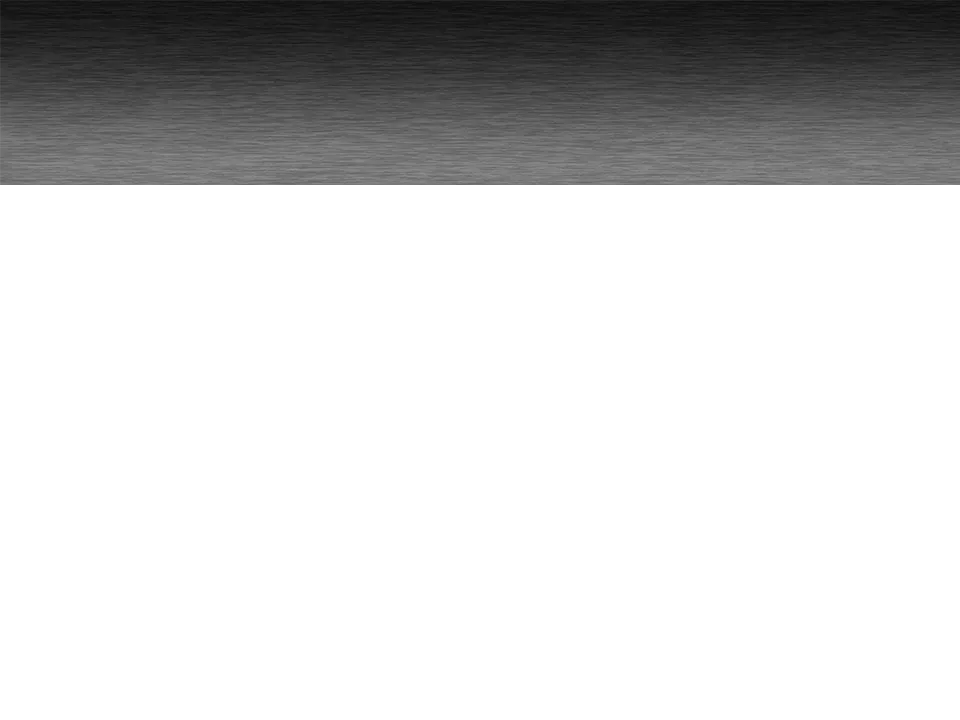
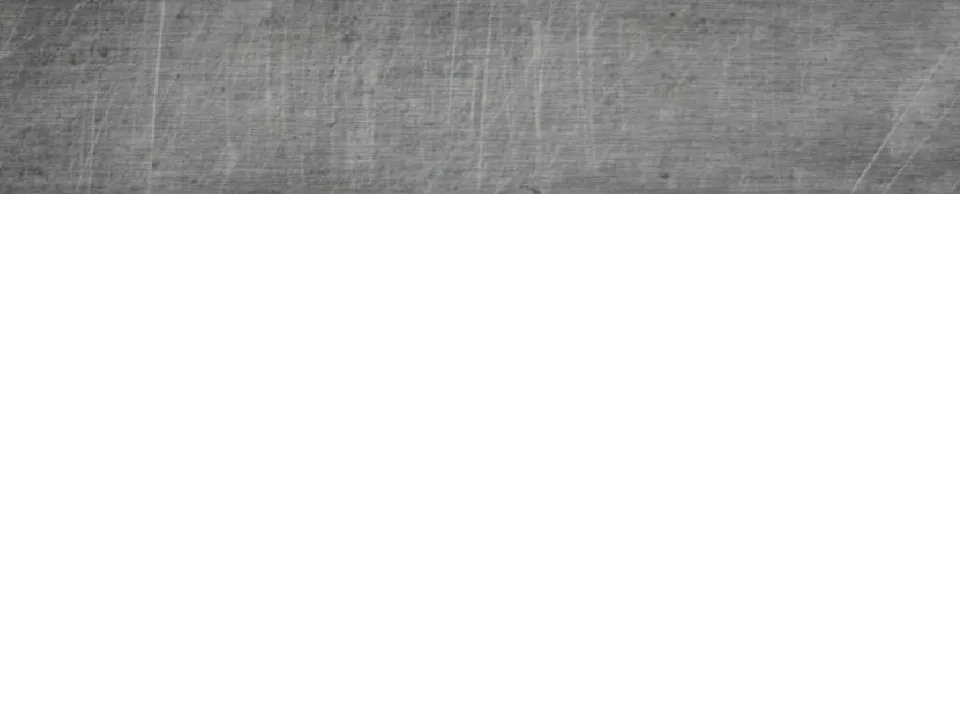
upgrade
- aspect ratio polished

Changed region(s): [[0.0, 0.0, 1.0, 0.275]]

diff --git a/README.md b/README.md
@@ -1,9 +1,12 @@
 # Meringue ES DE theme
 
 Compatible with [ES-DE 3.2.0](https://es-de.org/).<br>
-Aspect ratio : 1:1 / 4:3 / 3:2 / 16:9 / 16:10 / 21:9 <br />
-Gamelist view : Grid only with tiles sizes variant options <br />
+Aspect ratio : 1:1 / 4:3 / 3:2 / 16:9 / 16:10 / 21:9 and more<br />
+Gamelist view : Grid only with tiles sizes variant options small/medium/lage/extra large<br />
 Font size : small/medium/large<br />
+
+<img src="https://github.com/kthod861/Meringue_ES_DE_rg406/blob/main/screen.jpg" width="600" /><br />
+
 
 TODO: <br />
 Based on discussions with LeonSe
@@ -11,6 +14,7 @@ Based on discussions with LeonSe
 
 DONE: <br />
 - 1:1 4:3 3:2 16:9 16:10 21:9 aspect ratio supported
+- 21:9 assets added
 - Ports assets updated
 - Gamelist grid size is now handled by variant options instead of font size
 - Metadata / logos, some controllers and some backgrounds now comes from the official es-de assets repo
@@ -33,4 +37,4 @@ An interpretation of [Primal (MeringuePersonnal)](https://www.reddit.com/user/Me
 Most of the background assets comes from [emuemovies](https://emumovies.com/) thanks to them.<br />
 Big up to "Meringue", "Ant", "SymBuzzer", "Shadow", "LeonSe", "Snapouille" and more for the help they've provided here and there .<br>
 Thanks to "Chrizzo" for the [custom default background](https://github.com/chrizzo-hb/knulli-bootlogo/tree/main/knulli).<br>
-<img src="https://github.com/kthod861/Meringue_ES_DE_rg406/blob/main/screen.jpg" width="600" /><br />
+
